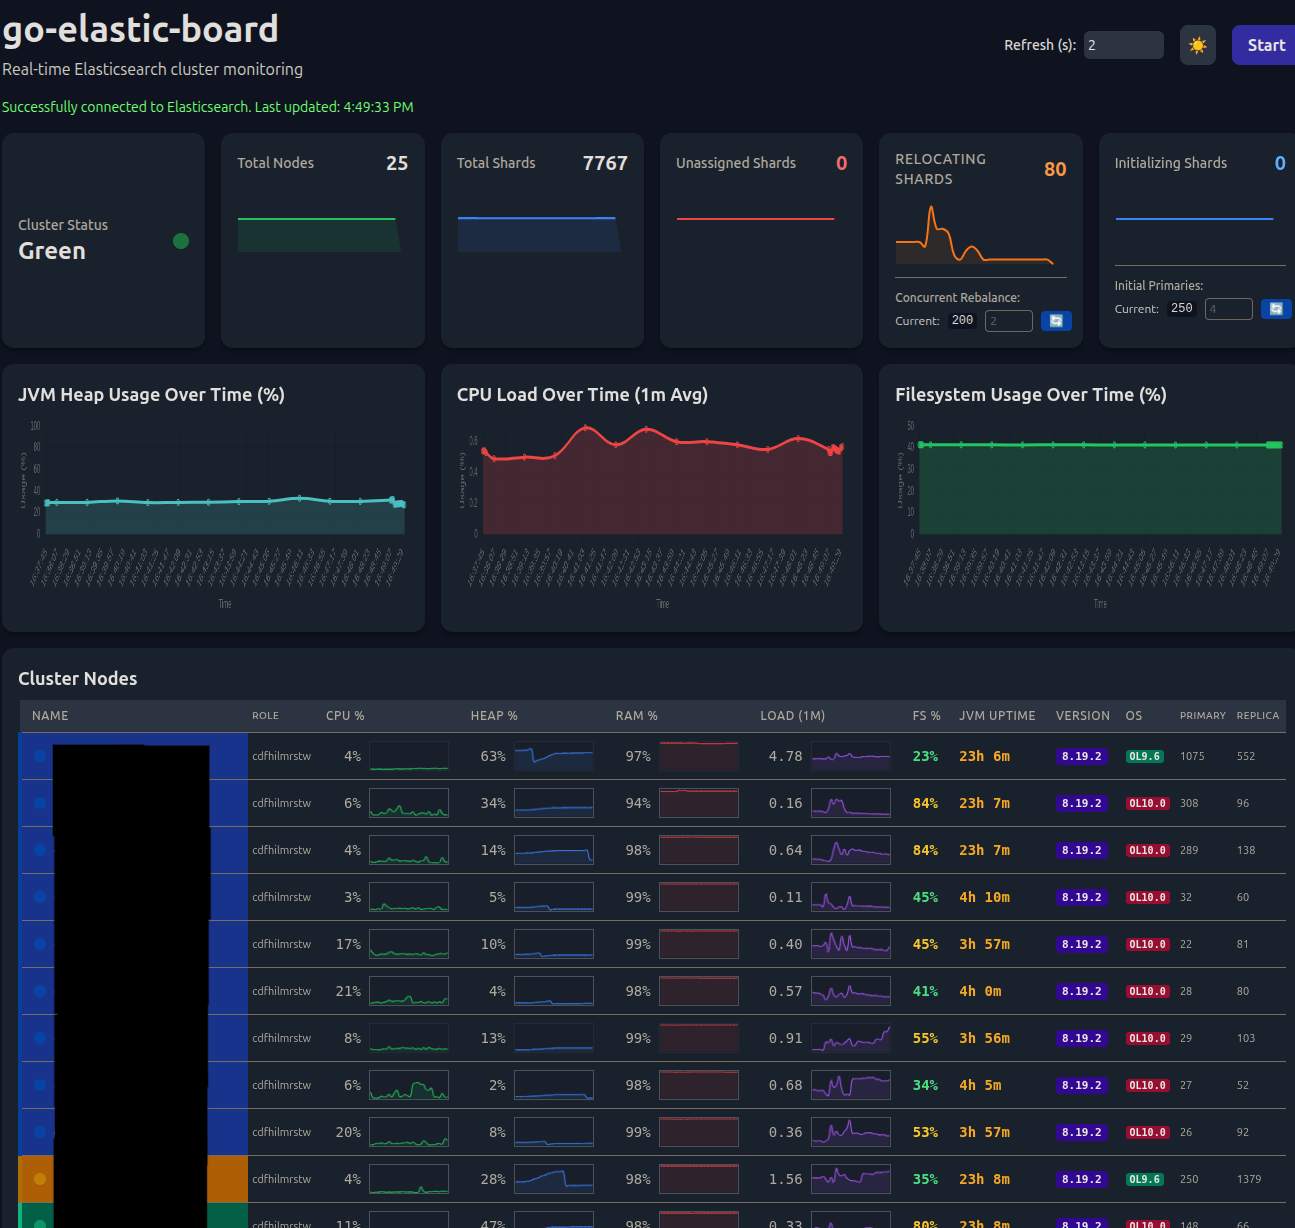
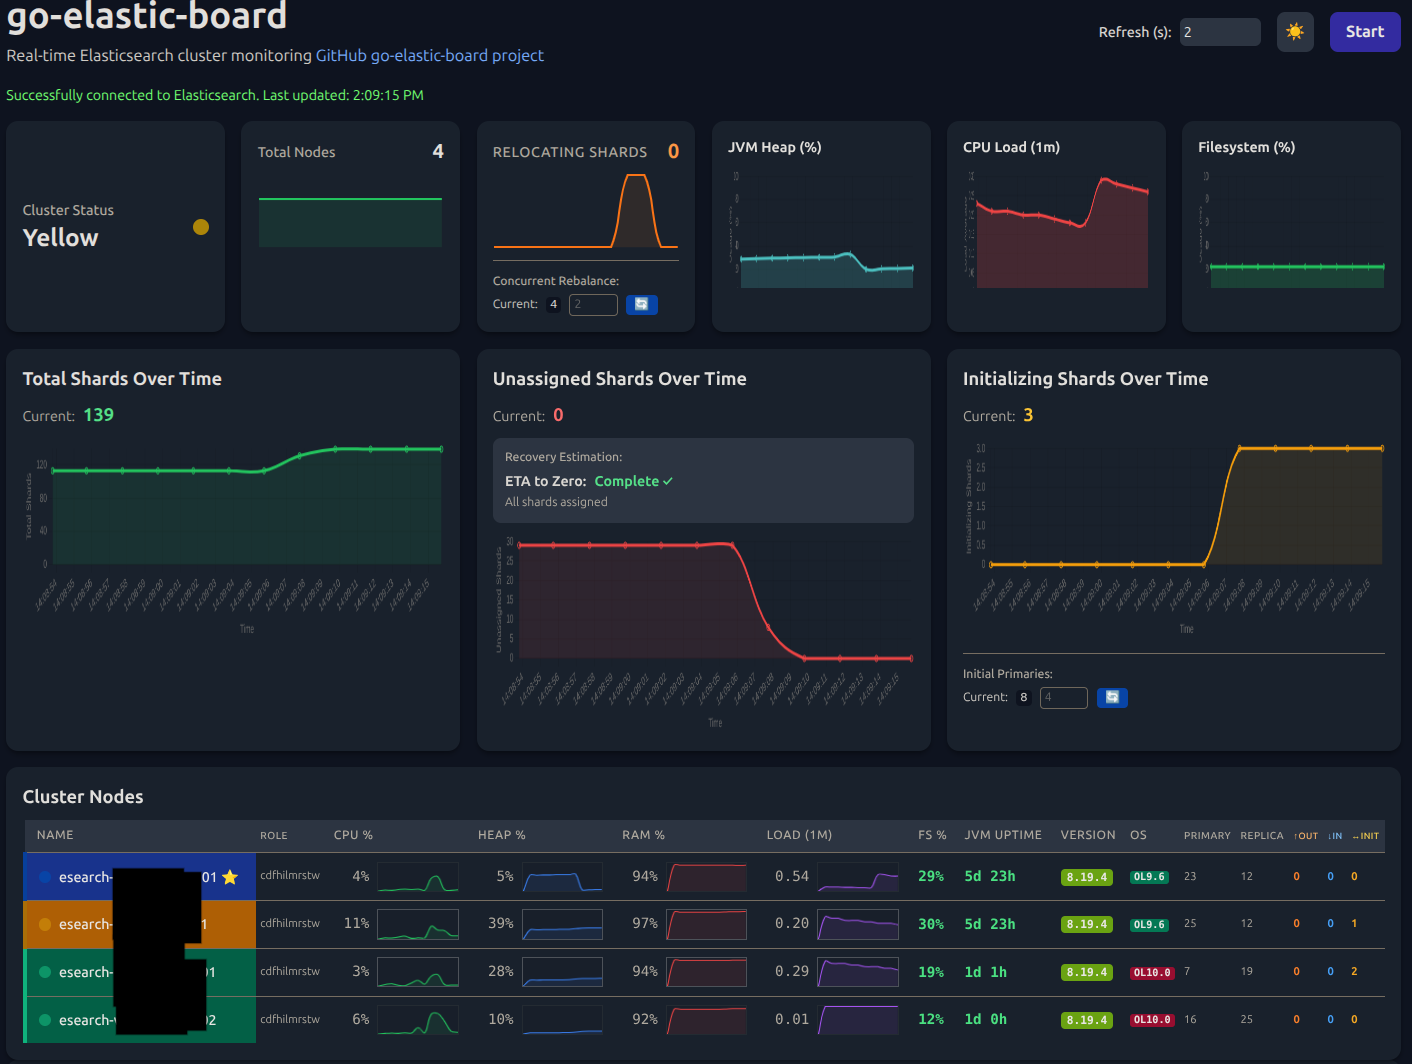
update screenshot and add CHANGELOG.md

diff --git a/CHANGELOG.md b/CHANGELOG.md
@@ -1,0 +1,64 @@
+# Changelog
+
+All notable changes to this project will be documented in this file.
+
+## [v0.0.2] - 2025-10-07
+
+### 🔒 Security & Operations
+
+- **Certificate Auto-Reloading**: Added automatic SSL certificate monitoring and reloading using `fsnotify`
+  - Server now automatically detects certificate file changes and reloads without restart
+  - Enables seamless certificate renewals for production deployments
+  - Graceful shutdown handling with proper signal management
+
+### 📊 Enhanced Monitoring - Shard Movement Tracking
+
+- **New Node Table Columns**: Added three new columns to track Elasticsearch shard movements:
+  - **↑Out** (Orange): Shards relocating out from the node
+  - **↓In** (Blue): Shards relocating into the node
+  - **↔Init** (Amber): Shards initializing on the node
+
+- **Real-time Shard Movement Data**:
+  - Integrated `/_cat/shards` API parsing to track `RELOCATING` and `INITIALIZING` shard states
+  - Accurate source/destination node mapping for relocating shards
+  - Per-node shard movement counters with color-coded indicators
+
+### 🎨 User Interface Improvements
+
+- **Intuitive Column Headers**: Added arrow icons (↑↓↔) for immediate visual understanding of shard movement directions
+
+- **Enhanced Chart Layout**: Reorganized dashboard charts for better space utilization:
+  - Prioritized shard-related charts (Total, Unassigned, Initializing, Relocating)
+  - Compacted system metrics charts (JVM, CPU, FS) on same row
+  - Added ETA calculations for shard recovery operations
+
+- **Color-Coded Movement Indicators**: Consistent color scheme across shard movement data
+  - Orange for outgoing operations
+  - Blue for incoming operations
+  - Amber for initialization processes
+
+### 🔧 Technical Improvements
+
+- **Async Data Fetching**: Optimized parallel API calls for shard movement data
+- **Improved Error Handling**: Enhanced error reporting for shard movement API failures
+- **Performance Optimization**: Reduced redundant API calls and improved data processing efficiency
+
+### 🚀 Operational Benefits
+
+- **Production Ready**: Certificate auto-reloading eliminates manual intervention for SSL renewals
+- **Enhanced Cluster Visibility**: Real-time shard movement tracking provides critical operational insights
+- **Improved Troubleshooting**: Detailed per-node shard activity helps identify cluster rebalancing issues
+- **Better Capacity Planning**: Shard movement metrics aid in cluster scaling decisions
+
+### 🛠 Dependencies
+
+- Added `github.com/fsnotify/fsnotify` for file system monitoring
+
+---
+
+## [v0.0.1] - Initial Release
+
+- Basic Elasticsearch cluster monitoring dashboard
+- Node health and metrics visualization
+- Cluster health monitoring
+- Basic shard information display
